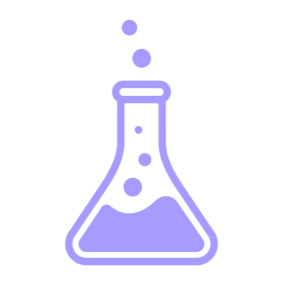
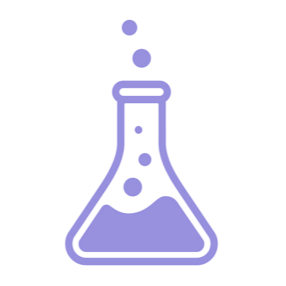
Simplify beaker animation to a rigid tilt of the real asset; darken brand purple
Swap the hand-drawn animated SVG for a CSS rotation on the actual
beaker.png so the typing indicator is pixel-identical in size and shape
to every other beaker icon on the site, just tilting — no separate
liquid layer to drift out of alignment. Also recolor the shared
beaker.png to a slightly darker purple, which updates it everywhere
(header logo, footer, marketing pages, chat messages) since they all
reference the one asset.

diff --git a/components/chat-message.tsx b/components/chat-message.tsx
@@ -1,41 +1,7 @@
 "use client"
 
-import { useId } from "react"
 import { Check, FileCheck2, Send, Trash2 } from "lucide-react"
 import { cn } from "@/lib/utils"
-
-/** Live "thinking" mark for TypingIndicator — the flask tilts side to side while the liquid
- *  (clipped to the glass) sloshes with a larger, slightly delayed swing so it reads as the
- *  liquid catching up to whichever side the glass just tilted toward. */
-function AnimatedBeaker() {
-  const clipId = useId()
-  // A single closed loop (rim, both walls, both flares, rounded bottom) — one continuous shape
-  // so there's no separate rim/wall piece to visibly drift apart once the group rotates. Reused
-  // verbatim as the liquid's clip so the liquid can never be drawn outside the glass it's tracing.
-  const outline = "M14,6 L22,6 L22,13 C26,16 32,20 32,27 C32,32 26,34 18,34 C10,34 4,32 4,27 C4,20 10,16 14,13 Z"
-  // Deliberately oversized (runs off all four sides) so at no point in the slosh rotation does
-  // its own edge come into view — only the glass clip above ever bounds what's visible.
-  const liquid = "M-10,25 C0,21 10,29 18,25 C26,21 36,29 46,25 L46,50 L-10,50 Z"
-  return (
-    <svg viewBox="0 0 36 36" className="h-9 w-9 shrink-0 text-[#6858ff] opacity-[0.62]" fill="none">
-      <g className="beaker-tilt-group">
-        <circle className="beaker-bubble" cx="15.5" cy="1.6" r="1.2" fill="currentColor" style={{ animationDelay: "0s" }} />
-        <circle className="beaker-bubble" cx="19.5" cy="0.6" r="0.8" fill="currentColor" style={{ animationDelay: "0.5s" }} />
-        <clipPath id={clipId}>
-          <path d={outline} />
-        </clipPath>
-        <g clipPath={`url(#${clipId})`}>
-          <g className="beaker-liquid-group">
-            <path d={liquid} fill="currentColor" />
-            <circle cx="16" cy="18" r="0.9" fill="currentColor" />
-            <circle cx="20.5" cy="21.5" r="1.4" fill="currentColor" />
-          </g>
-        </g>
-        <path d={outline} stroke="currentColor" strokeWidth="2.4" strokeLinecap="round" strokeLinejoin="round" />
-      </g>
-    </svg>
-  )
-}
 
 export function BotMessage({
   children,
@@ -148,7 +114,8 @@ export function DraftedCard({
 export function TypingIndicator() {
   return (
     <div className="flex animate-message-in items-center gap-3">
-      <AnimatedBeaker />
+      {/* eslint-disable-next-line @next/next/no-img-element */}
+      <img src="/brand/beaker.png" alt="" className="beaker-tilt-group h-9 w-9 shrink-0 object-contain" />
       <div className="flex items-center gap-2">
         <div className="h-4 w-4 animate-spin rounded-full border-2 border-primary/20 border-t-primary" />
         <span className="animate-pulse text-sm text-muted-foreground">Thinking…</span>

diff --git a/app/globals.css b/app/globals.css
@@ -165,30 +165,8 @@
 }
 
 .beaker-tilt-group {
-  transform-origin: 18px 34px;
+  transform-origin: 50% 92%;
   animation: beaker-tilt 1.7s ease-in-out infinite;
-}
-
-@keyframes beaker-slosh {
-  0%, 100% { transform: rotate(0deg); }
-  25% { transform: rotate(-16deg); }
-  75% { transform: rotate(16deg); }
-}
-
-.beaker-liquid-group {
-  transform-origin: 18px 34px;
-  animation: beaker-slosh 1.7s ease-in-out infinite;
-  animation-delay: 0.09s;
-}
-
-@keyframes beaker-bubble-rise {
-  0% { transform: translateY(0); opacity: 0; }
-  20% { opacity: 1; }
-  100% { transform: translateY(-7px); opacity: 0; }
-}
-
-.beaker-bubble {
-  animation: beaker-bubble-rise 1.7s ease-out infinite;
 }
 
 @keyframes beam-travel {
